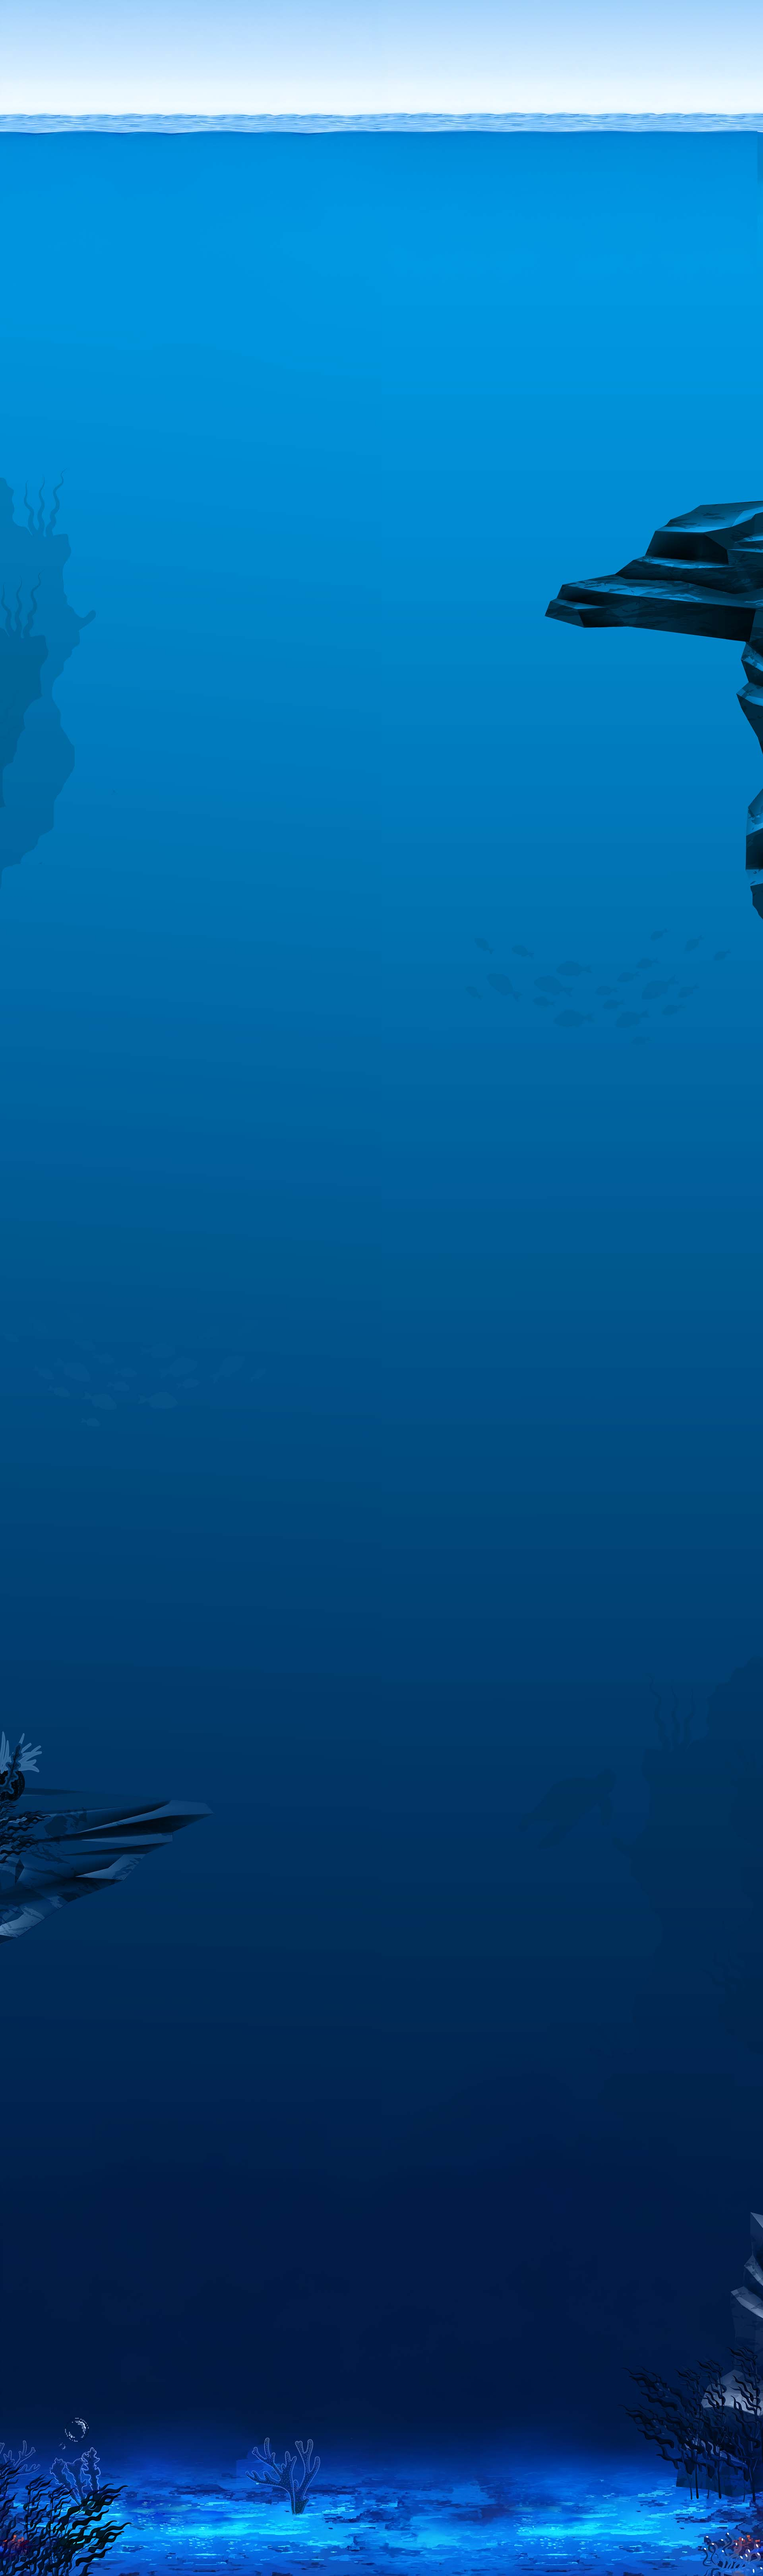
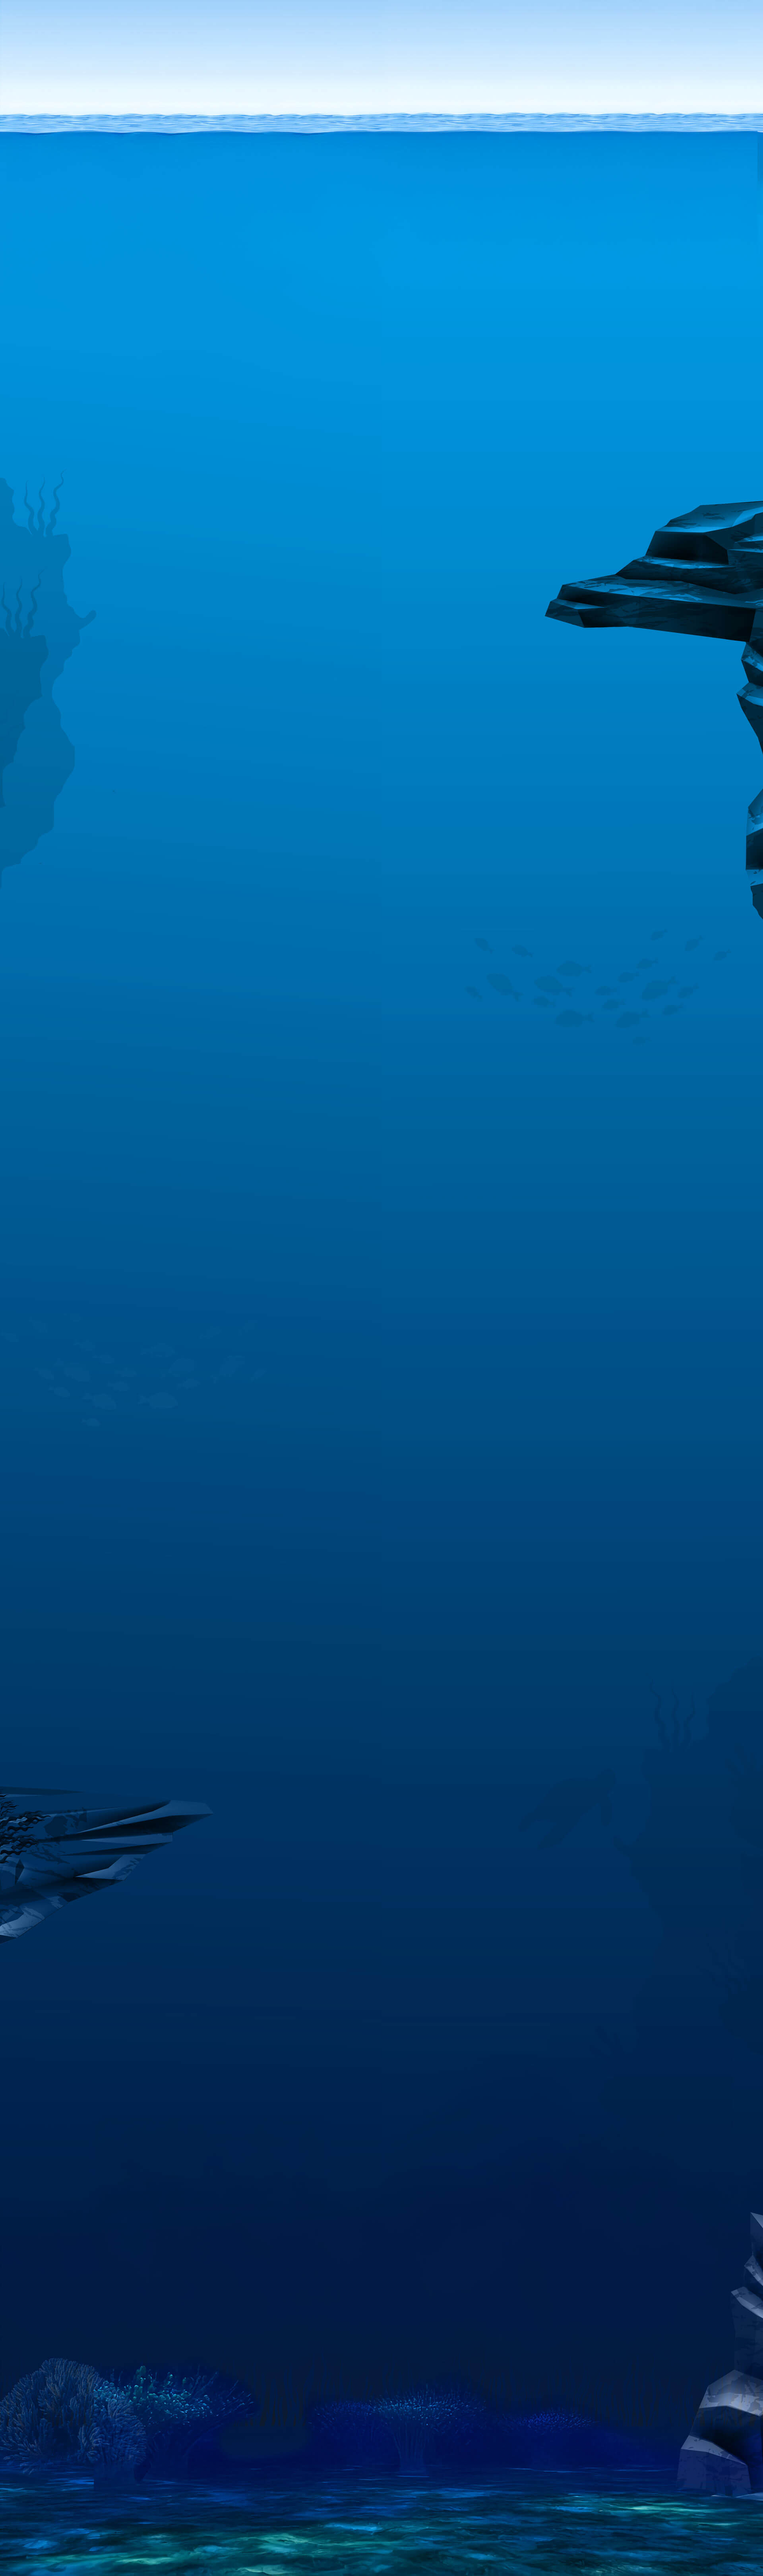
Bugfix Added foreground entities class Added rock Corrected yellow fish facing right iinstead of left

Changed region(s): [[0.0, 0.904, 1.0, 1.0], [0.0, 0.6546, 0.0625, 0.717]]

diff --git a/background_entities.py b/background_entities.py
@@ -1,6 +1,7 @@
 import pygame
 from pygame.locals import *
 from src.entities.fish import Fish
+from src.entities.rock import Rock
 from src.utils.map import Map
 from src.utils.color import Colors
 import random
@@ -16,10 +17,18 @@ class BackgroundEntities():
         ) -> None:
         self.map: Map = map
         self.fish_school = pygame.sprite.Group()
+        self.rock_group = pygame.sprite.Group()
         
         self.all_groups = [
             self.fish_school
         ]
+
+        self.foreground_groups = [
+            self.rock_group
+        ]
+
+        # Init Rock
+        self.rock_group.add(Rock(pos=(self.map.map_rect.left, self.map.map_rect.bottom)))
 
         # Init Jellyfishes
 
@@ -82,8 +91,18 @@ class BackgroundEntities():
         for group in self.all_groups:
             group.draw(self.map.map)
 
+            # # Debug
+            # for sprite in group:
+            #     pygame.draw.rect(self.map.map, Colors.WHITE, sprite.rect, 2)
+            
+            group.update()
+
+    def update_foreground(self):
+        for group in self.foreground_groups:
+            group.draw(self.map.map)
+
             # Debug
-            for sprite in group:
-                pygame.draw.rect(self.map.map, Colors.WHITE, sprite.rect, 2)
+            # for sprite in group:
+            #     pygame.draw.rect(self.map.map, Colors.WHITE, sprite.rect, 2)
             
             group.update()

diff --git a/src/entities/yellow_fish.py b/src/entities/yellow_fish.py
@@ -17,10 +17,11 @@ class YellowFish(Character):
 
     accelerated_animation_speed = 3
 
-    def __init__(self, pos=(0,0), sheets_path = base_path, scale=base_scale, animation_speed=10):
+    def __init__(self, pos=(0,0), facing_right = True, sheets_path = base_path, scale=base_scale, animation_speed=10):
         super().__init__(sheets_path, pos, scale, animation_speed)
         self.sound_manager = SoundManager()
         self.base_animation_speed = self.animation_speed
+        self.facing_right = facing_right
 
     def update(self):
         super().update()

diff --git a/main.py b/main.py
@@ -71,8 +71,13 @@ class MainGame:
         pygame.draw.rect(self.map.map, Colors.WHITE, self.player.rect, 2)
         # self.map.map.blit(self.player.mask.to_surface(), self.player.rect)
 
-        #timer
+        # Foreground entities update
+        self.background_entities.update_foreground()
+
+        # Camera Update
         self.map.update()
+
+        # Timer
         time = font40.render(f"Timer : {(pygame.time.get_ticks() - self.start_time) / 1000:.2f}", True, Colors.WHITE)
         screen.blit(time, (10, 10))
         pygame.display.update()

diff --git a/src/entities/rock.py b/src/entities/rock.py
@@ -1,0 +1,15 @@
+import pygame
+from pygame.locals import *
+from src.entities.character import Character
+from src.utils.map import Map
+
+class Rock(Character):
+    # Sprite sheet path
+    base_path = ["rock"]
+    base_scale = 0.5
+
+    def __init__(self, pos=(0,0), facing_right = True, sheets_path = base_path, scale=base_scale, animation_speed=10):
+        super().__init__(sheets_path, pos, scale, animation_speed)
+        self.map = map
+        self.facing_right = facing_right
+        self.rect.bottomleft = pos

diff --git a/obstacle.py b/obstacle.py
@@ -108,9 +108,11 @@ class Obstacle():
         self.yellow_fish_group.add(
             YellowFish( # Premier banc de poisson, poisson 1
                 pos=(750,5200),
+                facing_right=False
             ),
             YellowFish( # Premier banc de poisson, poisson 2
                 pos=(410,4875),
+                facing_right=False
             ),
             YellowFish( # Second banc de poisson, poisson 
                 pos=(1050,2750),

diff --git a/src/entities/character.py b/src/entities/character.py
@@ -94,6 +94,8 @@ class Character(pygame.sprite.Sprite):
             self.image = self.images_list[self.state][self.index]
             self.mask = self.masks_list[self.state][self.index]
             self.mask_diff = self.masks_diff_list[self.state][self.index]
+            if not self.facing_right:
+                self.update_facing()
 
 
     def update_facing(self):
